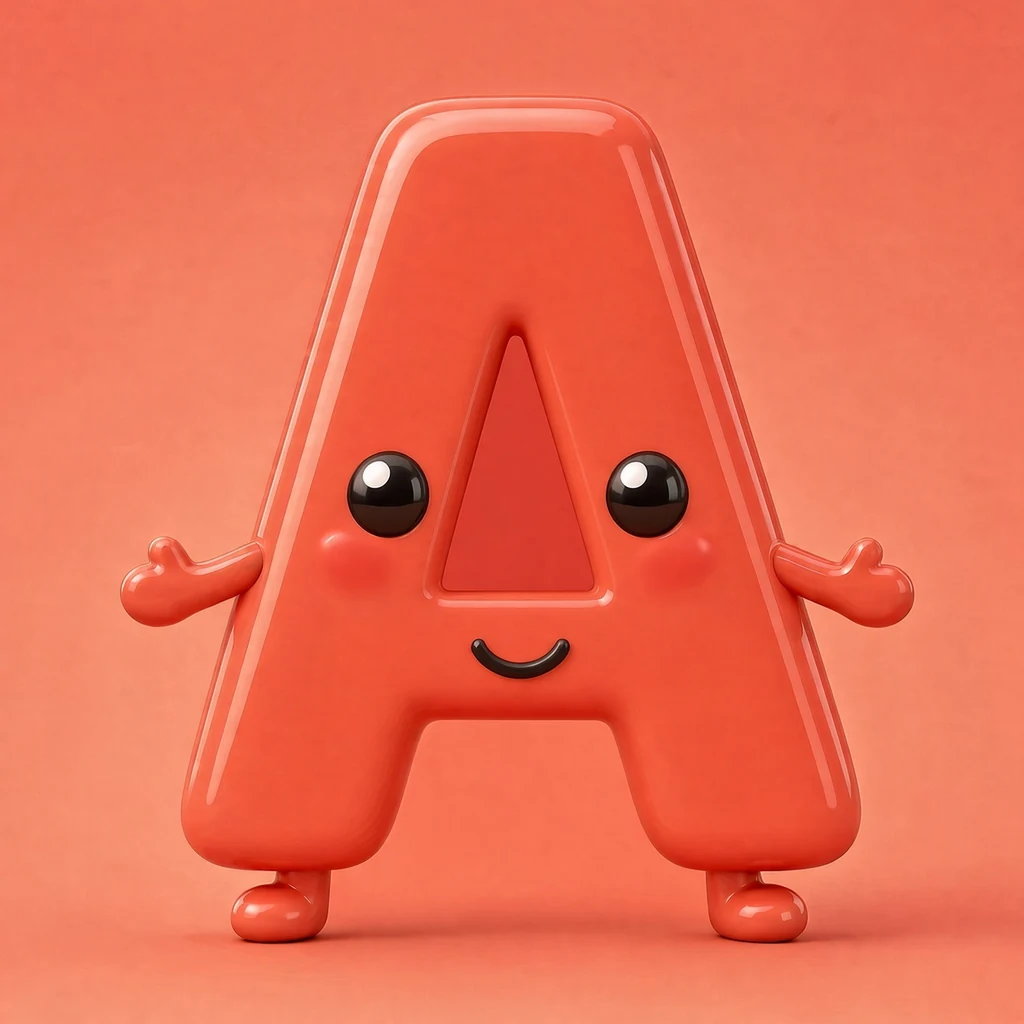
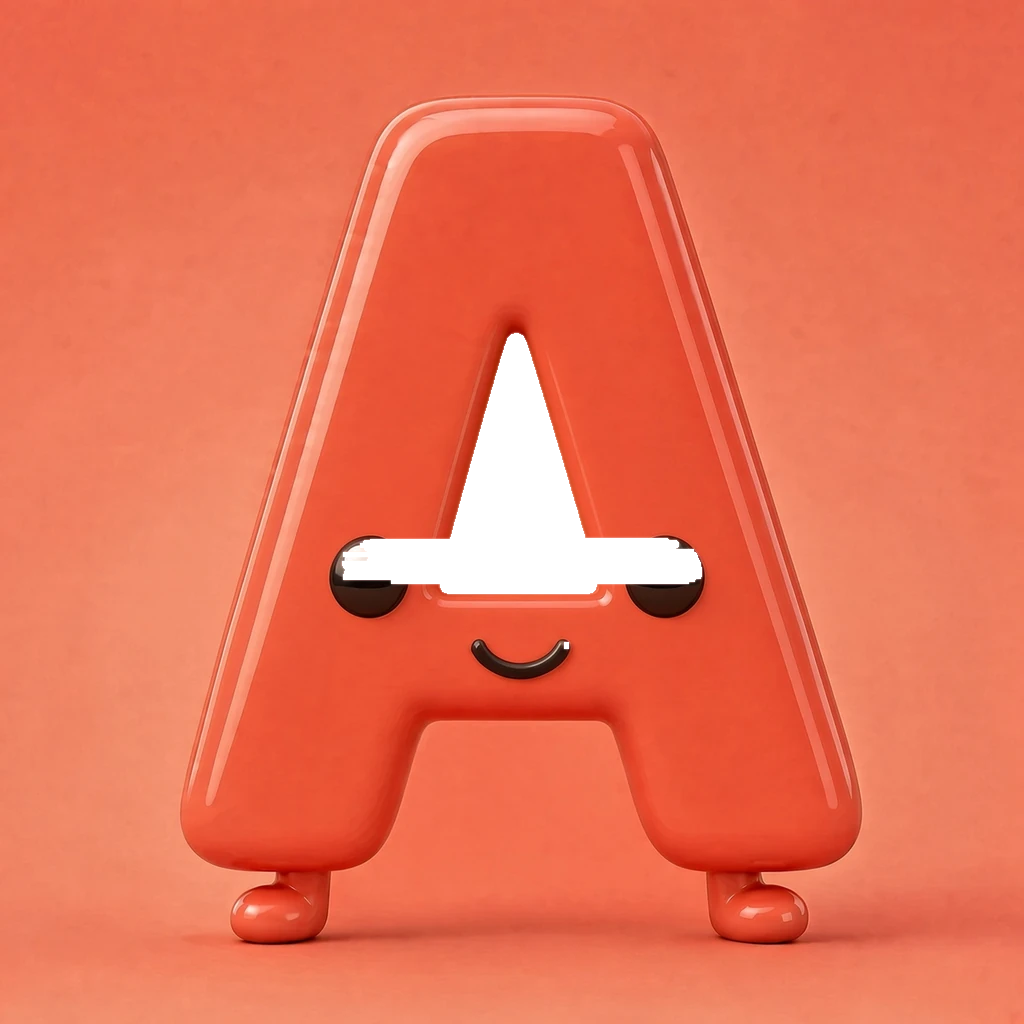
v0.192: Big A thumb has a real see-through hole, not dark red paint.

diff --git a/src/lib/version.ts b/src/lib/version.ts
@@ -12,7 +12,7 @@
  * Grok Publish: still remind at v0.070, v0.080… so the public link can match.
  */
 
-export const APP_VERSION = "0.191";
+export const APP_VERSION = "0.192";
 export const APP_VERSION_LABEL = `v${APP_VERSION}`;
 export const APP_SLUG = "abc-adventure";
 export const APP_DISPLAY_NAME = "ABC Adventure";

diff --git a/AGENTS.project.md b/AGENTS.project.md
@@ -44,7 +44,7 @@ Meet I2V spoken line is only **“little X”** (or **“Big X”**). Never past
 phonetic spellings (ELL, AY, KAY, CUE) or sound-cues (“says lll like lion”)
 into the prompt as dialogue — the model reads them out (lell, yay, why).
 Meet little **l** has a small tail curling **right** at the bottom.
-**A** still: empty triangle hole. Mouth sits **on the crossbar**, not in the hole.
+**A** still: the triangle is a **real hole** (transparent / see-through), not a darker-red painted triangle. Mouth on the crossbar.
 Meet clips from **J onward**: the letter says **“Hi I’m Big J, Big J, Big J”**
 (that letter). Slow: **“Big… A… Big… A…”**. Still missing that Big line: **B C D E F G H I**.
 Meet letters are **the glyph only** — no extra arms, legs, or stubs. q has **one**

diff --git a/SESSION.md b/SESSION.md
@@ -1,6 +1,6 @@
 # Session compact — ABC Adventure
 
-**Version:** v0.191  
+**Version:** v0.192  
 **GitHub:** sh4gu4dummy-arch/abc-adventure `main`  
 **User tests in Grok live preview**, not APK, unless they ask.
 
@@ -32,6 +32,9 @@ really is done. Tap to play again (v0.129).
 | H heart | Crayon with two points | One-tip crayon; look-at-the-clip QA (not a tip-count law) |
 
 A–Z word videos exist. J–Z remade to locked sentences; A–I older unless later patched (G, H, fish, frog, etc.).
+
+## Big A thumb (v0.192)
+Real cut-out hole (transparent), not a darker red triangle.
 
 ## Big A thumb (v0.191)
 Hole empty. Mouth on the crossbar, not hanging in the hole.

diff --git a/PROJECT.md b/PROJECT.md
@@ -113,7 +113,7 @@ npm run build:apk      # only when asked
 
 ## Versioning & downloads
 
-- **Current version:** `0.191` (`v0.191`) — stored in `VERSION` and `src/lib/version.ts` (keep in sync).
+- **Current version:** `0.192` (`v0.192`) — stored in `VERSION` and `src/lib/version.ts` (keep in sync).
 
 ## GitHub + Grok Publish cadence
 
